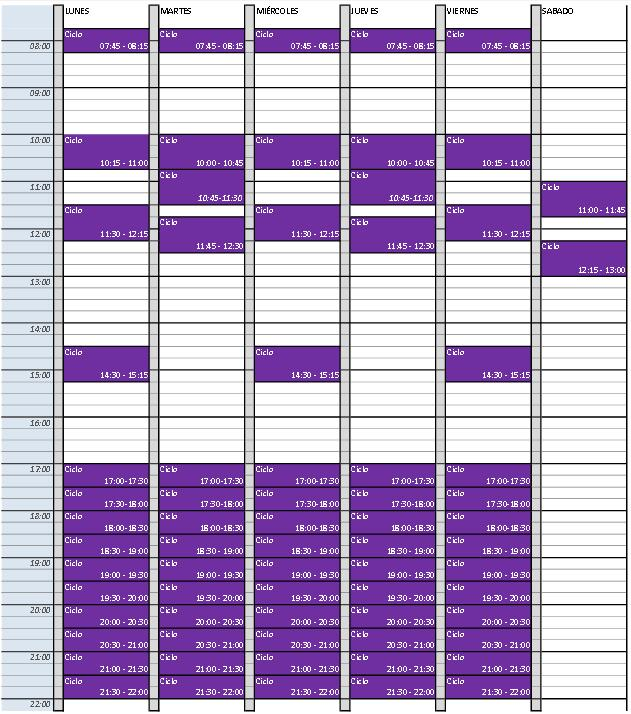
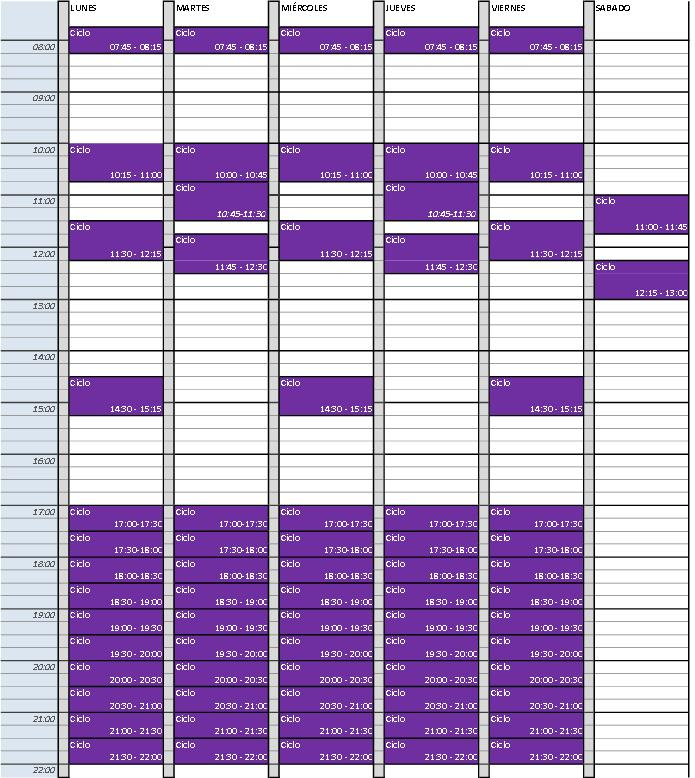
Images salas modificadas

diff --git a/style.css b/style.css
@@ -167,7 +167,7 @@ div{
 	float:left;
 	width:585px;
 	height:474px;
-	/*background-image:url(img/sala.png);*/
+	background-image:url(img/sala.png);
 	background-repeat:no-repeat;
 	position:relative;
 }

diff --git a/salas_y_horarios.php b/salas_y_horarios.php
@@ -1,4 +1,4 @@
-<div id="cuerpocenter_sala_borde_top"></div>
+<!--<div id="cuerpocenter_sala_borde_top"></div>-->
 <div id="cuerpocenter_sala">
 	<script src="./plugins/ImageSlider/ImageSlider.js" type="text/javascript" ></script>
 	<script src="./plugins/Lightbox/Lightbox.js" type="text/javascript" ></script>
@@ -69,10 +69,10 @@
      <div id="horarios_sala">
      <span id="titulo_horarios">Horarios:</span><br>
      
-	  Horario Clases Ciclo <a href="javascript:void(0)"><img src="img/sala1.jpg" width="100"  title="Pulsa para ampliar" onclick="Lightbox.show({image:'img/sala1.jpg',width: 650, height: 714, label:{position:'up',text:'Horario Clases Ciclo'}});"/></a>
+	  Horario Clases Ciclo <a href="javascript:void(0)"><img src="img/sala1.jpg" width="100"  title="Pulsa para ampliar" onclick="Lightbox.show({image:'img/sala1.jpg',width: 695, height: 778, label:{position:'up',text:'Horario Clases Ciclo'}});"/></a>
 	  
 	  
-    Horario Clases Colectivas <a href="javascript:void(0)"><img src="img/sala2.jpg" width="100" title="Pulsa para ampliar" onclick="Lightbox.show({image:'img/sala2.jpg',width: 635, height: 715, label:{position:'up',text:'Horario Clases Colectivas'}});"/></a>
+    Horario Clases Colectivas <a href="javascript:void(0)"><img src="img/sala2.jpg" width="100" title="Pulsa para ampliar" onclick="Lightbox.show({image:'img/sala2.jpg',width: 694, height: 773, label:{position:'up',text:'Horario Clases Colectivas'}});"/></a>
     <br><br>    
     Pulsar en las imagenes para ampliar los horarios.    
     <br><br>
@@ -83,4 +83,9 @@
    </div>
     
 </div>
-<div id="cuerpocenter_sala_borde_bottom"></div>
+<!--<div id="cuerpocenter_sala_borde_bottom"></div>-->
+<div style="text-align:center"><img src="img/tu_fitness.jpg" />
+</div>
+<div style="text-align:center;margin-top:15px">
+<img src="img/precio/Precio_3.png" width="210">
+</div>

diff --git a/home.php b/home.php
@@ -50,7 +50,7 @@ class="boton"><?php if(@$_GET['p'] == 'clases'){ ?> <span class="bizq"></span><a
         <div id="centro">
             <div id="cuerpoizq">
             	<div id="cuerpoizq_1">
-                	<img style="cursor:pointer" onclick="popu('Las incripciones desde la web están agotadas, para nuevas inscripciones en el gimnasio.')" border="0" src="img/inscribete.png" /><br /> 
+                	<!--<img style="cursor:pointer" onclick="popu('Las incripciones desde la web están agotadas, para nuevas inscripciones en el gimnasio.')" border="0" src="img/inscribete.png" /><br />--> 
                 	
                 </div>            
                 <div id="cuerpoizq_2">
@@ -155,7 +155,7 @@ class="boton"><?php if(@$_GET['p'] == 'clases'){ ?> <span class="bizq"></span><a
                    );
                  </script>
               <?php 
-                 if ($_GET['p'] != 'clases'){              
+                 if ($_GET['p'] != 'clases' && $_GET['p'] != 'salas'){              
               ?>         
                     <div id="frasecenter">
     

diff --git a/clases.php b/clases.php
@@ -2,7 +2,7 @@
    <?php
      include_once('./php/DirectoryFunctions.php'); 
    ?>
-<div id="cuerpocenter_clases_borde_top"></div>
+<!--<div id="cuerpocenter_clases_borde_top"></div>-->
 <div id="cuerpocenter_clases">
 	
 	
@@ -90,7 +90,7 @@
         </div>
     
 </div>
-<div id="cuerpocenter_clases_borde_bottom"></div>
+<!--<div id="cuerpocenter_clases_borde_bottom"></div>-->
 <div style="text-align:center"><img src="img/tu_fitness.jpg" />
 </div>
 <div style="text-align:center;margin-top:15px">
